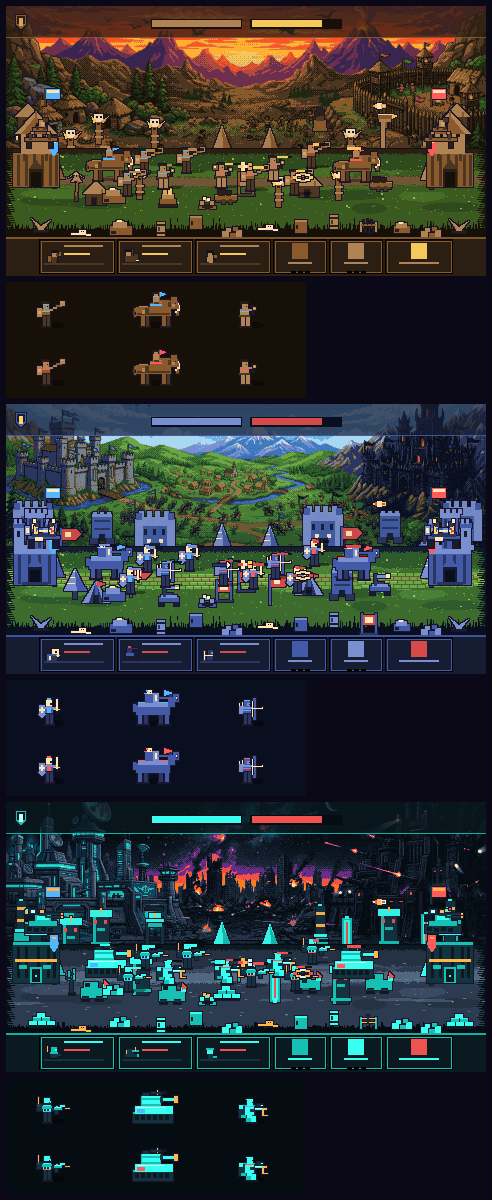
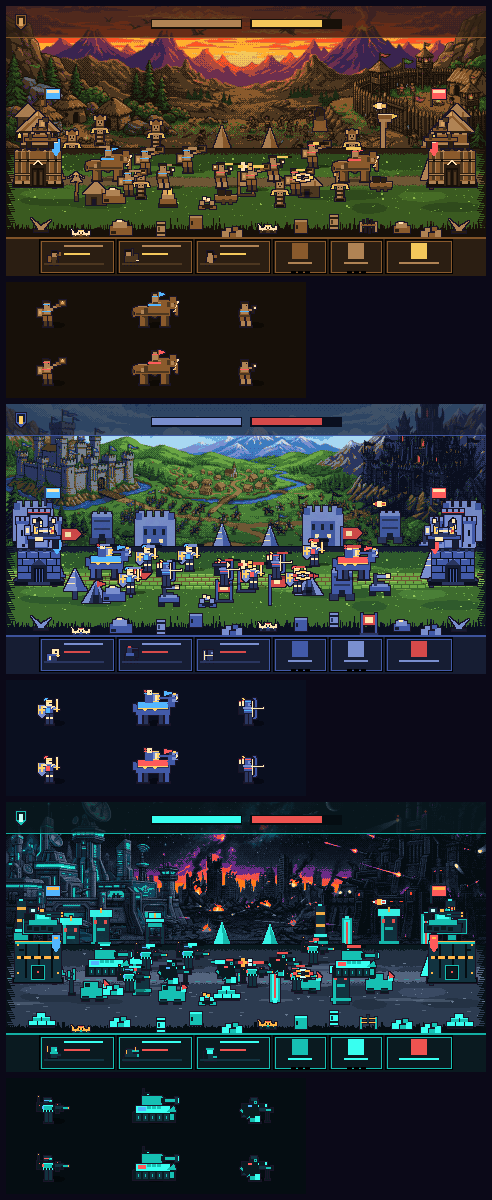
feat(render,hud,audio): add ghost spawn preview, live tug-of-war bar, and granular mute
- add 1-second delayed ghost preview at lane spawn point on button hover
- add live tug-of-war momentum meter derived from sim unit power & front line positions
- add granular mute controls: Shift+M for voice, Ctrl+M for music, M for master
- ensure unscaled victory timer and reset timeScale on menu transition
- add test assertion for grounded tower footings and regenerate offline art previews

diff --git a/src/render/GameScene.ts b/src/render/GameScene.ts
@@ -138,6 +138,8 @@ export class GameScene extends Phaser.Scene {
   private playerTurret!: Phaser.GameObjects.Image;
   private aiTurret!: Phaser.GameObjects.Image;
   private turretRank = { player: 0, ai: 0 };
+  private ghostPreview: Phaser.GameObjects.Image | null = null;
+  private ghostTimer: ReturnType<typeof setTimeout> | null = null;
   /** Recoil offset in px, decaying, applied on top of the turret's rest pose. */
   private turretKick = { player: 0, ai: 0 };
   private strikeLayer!: Phaser.GameObjects.Container;
@@ -251,6 +253,40 @@ export class GameScene extends Phaser.Scene {
     // HUD
     this.hud = new Hud(this);
     this.hud.onSpawnRequest = (role) => this.trySpawn('player', role);
+    this.hud.onSpawnHover = (role) => {
+      if (this.ghostTimer) {
+        clearTimeout(this.ghostTimer);
+        this.ghostTimer = null;
+      }
+      if (!role || this.sim.result !== 'playing') {
+        if (this.ghostPreview) {
+          this.ghostPreview.destroy();
+          this.ghostPreview = null;
+        }
+        return;
+      }
+      this.ghostTimer = setTimeout(() => {
+        if (!this.scene.isActive() || this.sim.result !== 'playing') return;
+        if (this.ghostPreview) this.ghostPreview.destroy();
+        const spawnX = PLAYER_BASE_X + 46;
+        const groundY = laneGroundY(spawnX);
+        const key = unitKey(this.sim.player.age, role, 'player');
+        const fit = UNIT_FIT[this.sim.player.age][role];
+        this.ghostPreview = this.add.image(spawnX, groundY, key)
+          .setOrigin(0.5, fit.foot / fit.h)
+          .setScale(PIXEL_SCALE)
+          .setDepth(DEPTH.unit - 0.2)
+          .setAlpha(0.48)
+          .setTint(0x53b6ff);
+        this.tweens.add({
+          targets: this.ghostPreview,
+          alpha: { from: 0.3, to: 0.65 },
+          duration: 480,
+          yoyo: true,
+          repeat: -1,
+        });
+      }, 1000);
+    };
     this.hud.onEvolveRequest = () => this.tryEvolve('player');
     this.hud.onUpgradeForge = () => this.tryUpgrade('forge');
     this.hud.onUpgradeArmor = () => this.tryUpgrade('armor');
@@ -312,7 +348,17 @@ export class GameScene extends Phaser.Scene {
     }
 
     this.input.keyboard?.on('keydown', (e: KeyboardEvent) => {
-      const mKey = () => { this.hud.setMusic(!audio.toggleMute()); };
+      const handleMuteKey = () => {
+        if (e.shiftKey) {
+          const vMuted = voice.toggleVoice();
+          this.hud.announce('VOICE', vMuted ? 'MUTED' : 'ENABLED', 1000);
+        } else if (e.ctrlKey || e.metaKey) {
+          const mMuted = audio.toggleMusic();
+          this.hud.announce('MUSIC', mMuted ? 'MUTED' : 'ENABLED', 1000);
+        } else {
+          this.hud.setMusic(!audio.toggleMute());
+        }
+      };
       if (e.key === 'p' || e.key === 'P' || e.code === 'Escape') { this.togglePause(); return; }
       if (e.key === 'f' || e.key === 'F') { this.toggleFullscreen(); return; }
       if (this.sim.result !== 'playing') {
@@ -320,7 +366,7 @@ export class GameScene extends Phaser.Scene {
           if (this.sim.result === 'win' && this.stageId > 0 && this.stageId < STAGES.length) this.gotoStage(this.stageId + 1);
           else safeRestart();
         } else if (e.code === 'Space' || e.key === 'r' || e.key === 'R') safeRestart();
-        else if (e.key === 'm' || e.key === 'M') mKey();
+        else if (e.key === 'm' || e.key === 'M') handleMuteKey();
         return;
       }
       if (e.key === '1') this.trySpawn('player', 'swarm');
@@ -331,7 +377,7 @@ export class GameScene extends Phaser.Scene {
       else if (e.key === 'y' || e.key === 'Y') this.tryUpgrade('armor');
       else if (e.key === 't' || e.key === 'T') this.tryTurret();
       else if (e.key === 'q' || e.key === 'Q') this.tryChronoSurge();
-      else if (e.key === 'm' || e.key === 'M') mKey();
+      else if (e.key === 'm' || e.key === 'M') handleMuteKey();
       // Space is the superweapon: it is the one action worth a fat hotkey.
       else if (e.key === ' ') this.tryUltimate();
       else if (e.key === 'x' || e.key === 'X') this.cycleSpeed();
@@ -512,6 +558,10 @@ export class GameScene extends Phaser.Scene {
 
   /** Back to the campaign map — saves progress and exits cleanly. */
   private toMenu(): void {
+    if (this.ghostTimer) { clearTimeout(this.ghostTimer); this.ghostTimer = null; }
+    if (this.ghostPreview) { this.ghostPreview.destroy(); this.ghostPreview = null; }
+    this.time.timeScale = 1;
+    this.speedMul = 1;
     crazyGameplayStop();
     saveProgress(loadProgress());
     this.scene.start('MenuScene');
@@ -546,6 +596,8 @@ export class GameScene extends Phaser.Scene {
   }
 
   private restart(): void {
+    if (this.ghostTimer) { clearTimeout(this.ghostTimer); this.ghostTimer = null; }
+    if (this.ghostPreview) { this.ghostPreview.destroy(); this.ghostPreview = null; }
     this.time.timeScale = 1;
     this.speedMul = 1;
     this.resultsShown = false;
@@ -569,6 +621,8 @@ export class GameScene extends Phaser.Scene {
 
   private trySpawn(side: 'player' | 'ai', role: UnitRole): void {
     if (side !== 'player') return;
+    if (this.ghostTimer) { clearTimeout(this.ghostTimer); this.ghostTimer = null; }
+    if (this.ghostPreview) { this.ghostPreview.destroy(); this.ghostPreview = null; }
     if (canSpawn(this.sim, 'player', role)) {
       this.pendingIntents.push({ type: 'spawn', side: 'player', role });
       audio.sfxSpawn(this.sim.player.age);

diff --git a/src/render/Hud.ts b/src/render/Hud.ts
@@ -12,6 +12,8 @@ import {
   LANE_HEIGHT,
   LANE_TOP,
   LANE_WIDTH,
+  PLAYER_BASE_X,
+  AI_BASE_X,
   MAX_TURRET_RANK,
   MAX_UPGRADE_RANK,
   ROLE_HOTKEY,
@@ -91,6 +93,10 @@ export class Hud {
   private aiHpText!: Phaser.GameObjects.Text;
   private playerHpFrame!: Phaser.GameObjects.Rectangle;
   private aiHpFrame!: Phaser.GameObjects.Rectangle;
+  private towFrame!: Phaser.GameObjects.Rectangle;
+  private towBarPlayer!: Phaser.GameObjects.Rectangle;
+  private towBarAi!: Phaser.GameObjects.Rectangle;
+  private towMarker!: Phaser.GameObjects.Rectangle;
   private topPanel!: Phaser.GameObjects.Graphics;
   private bottomPanel!: Phaser.GameObjects.Graphics;
   private crest!: Phaser.GameObjects.Image;
@@ -98,6 +104,7 @@ export class Hud {
   private xpIcon!: Phaser.GameObjects.Image;
 
   onSpawnRequest?: (role: UnitRole) => void;
+  onSpawnHover?: (role: UnitRole | null) => void;
   onEvolveRequest?: () => void;
   onUpgradeForge?: () => void;
   onUpgradeArmor?: () => void;
@@ -246,6 +253,17 @@ export class Hud {
       fontFamily: 'monospace', fontSize: '11px', color: '#ffe0b0',
       stroke: '#171009', strokeThickness: 3,
     }).setOrigin(0, 0.5).setDepth(10);
+
+    // Live tug-of-war front line / momentum bar
+    const towW = 140, towH = 4;
+    this.towFrame = s.add.rectangle(w / 2, 57, towW + 4, towH + 4, 0x171009, 0.9)
+      .setOrigin(0.5, 0.5).setDepth(10).setStrokeStyle(1, 0x4d3720);
+    this.towBarPlayer = s.add.rectangle(w / 2 - towW / 2, 57, towW / 2, towH, 0x2ecc71)
+      .setOrigin(0, 0.5).setDepth(11);
+    this.towBarAi = s.add.rectangle(w / 2, 57, towW / 2, towH, 0xef5350)
+      .setOrigin(0, 0.5).setDepth(11);
+    this.towMarker = s.add.rectangle(w / 2, 57, 2, towH + 4, 0xffd166)
+      .setOrigin(0.5, 0.5).setDepth(12);
 
     // Controls (top right)
     const btnStyle = { fontFamily: 'monospace', fontSize: '12px', backgroundColor: '#171009', padding: { x: 8, y: 5 } };
@@ -434,8 +452,14 @@ export class Hud {
     const cd = s.add.rectangle(x - w / 2 + 3, y - h / 2 + 3, 0, h - 6, 0x171009, 0.62).setOrigin(0, 0).setDepth(13).setVisible(false);
 
     bg.on('pointerdown', () => this.onSpawnRequest?.(role));
-    bg.on('pointerover', () => bg.setFillStyle(0x4d3720));
-    bg.on('pointerout', () => bg.setFillStyle(0x171009));
+    bg.on('pointerover', () => {
+      bg.setFillStyle(0x4d3720);
+      this.onSpawnHover?.(role);
+    });
+    bg.on('pointerout', () => {
+      bg.setFillStyle(0x171009);
+      this.onSpawnHover?.(null);
+    });
 
     this.buttons.push({ role, bg, accent, icon, label, cost, hotkey, stats, cd, frame });
   }
@@ -680,6 +704,38 @@ export class Hud {
     this.aiHpBar.width = barW * aRatio;
     this.aiHpBar.setFillStyle(aRatio < 0.3 ? theme.hpEnemy : aRatio < 0.6 ? theme.gold : theme.hpEnemy);
     this.aiHpText.setText(`${Math.max(0, Math.ceil(a.baseHp))} / ${BASE_HP}   ENEMY`);
+
+    // Tug-of-war momentum derived from unit combat power & front line positions
+    let playerPower = 10;
+    let aiPower = 10;
+    let maxPlayerX = PLAYER_BASE_X;
+    let minAiX = AI_BASE_X;
+
+    for (const u of state.units) {
+      if (u.state === 'die') continue;
+      const power = u.hp * 0.5 + u.def.damage * 2 + u.def.cost;
+      if (u.side === 'player') {
+        playerPower += power;
+        if (u.x > maxPlayerX) maxPlayerX = u.x;
+      } else {
+        aiPower += power;
+        if (u.x < minAiX) minAiX = u.x;
+      }
+    }
+    const powerRatio = playerPower / (playerPower + aiPower);
+    const scrimmageX = (maxPlayerX + minAiX) / 2;
+    const posRatio = Phaser.Math.Clamp((scrimmageX - PLAYER_BASE_X) / (AI_BASE_X - PLAYER_BASE_X), 0.05, 0.95);
+    const towRatio = Phaser.Math.Clamp(posRatio * 0.5 + powerRatio * 0.5, 0.05, 0.95);
+
+    const towW = 140;
+    const splitX = (LANE_WIDTH / 2 - towW / 2) + towW * towRatio;
+    this.towBarPlayer.width = towW * towRatio;
+    this.towBarAi.x = splitX;
+    this.towBarAi.width = towW * (1 - towRatio);
+    this.towMarker.x = splitX;
+    this.towBarPlayer.setFillStyle(theme.hpPlayer);
+    this.towBarAi.setFillStyle(theme.hpEnemy);
+    this.towFrame.setStrokeStyle(1, theme.border);
 
     const roleAccent: Record<UnitRole, number> = {
       swarm: theme.xp,

diff --git a/src/audio/voice.ts b/src/audio/voice.ts
@@ -54,9 +54,15 @@ class VoiceAnnouncer {
     }
   }
 
+  private voiceMuted = false;
+
+  setVoiceMuted(m: boolean): void { this.voiceMuted = m; }
+  toggleVoice(): boolean { this.voiceMuted = !this.voiceMuted; return this.voiceMuted; }
+  isMuted(): boolean { return this.voiceMuted || audio.isMuted(); }
+
   play(line: VoiceLine, minIntervalMs = 3500): void {
     if (typeof window === 'undefined') return;
-    if (audio.isMuted()) return;
+    if (this.isMuted()) return;
 
     const now = performance.now();
     const last = this.lastSpoken.get(line) ?? 0;

diff --git a/test/render/art.test.ts b/test/render/art.test.ts
@@ -183,6 +183,16 @@ describe('scale hierarchy', () => {
       expect(human * 2).toBeLessThan(towerH); // two men stacked stay under the roofline
     }
   });
+
+  it('anchors tower footings firmly to the ground line with grounded footprints', () => {
+    for (const age of AGES) {
+      for (const side of ['player', 'ai'] as const) {
+        const fit = BASE_FIT[age][side];
+        expect(fit.foot).toBeGreaterThanOrEqual(fit.h - 2);
+        expect(fit.w).toBeGreaterThanOrEqual(45);
+      }
+    }
+  });
 });
 
 describe('prop art', () => {
